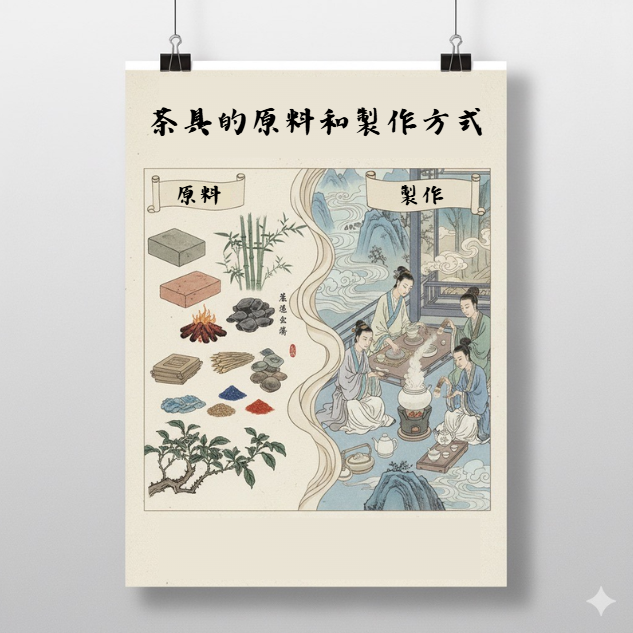
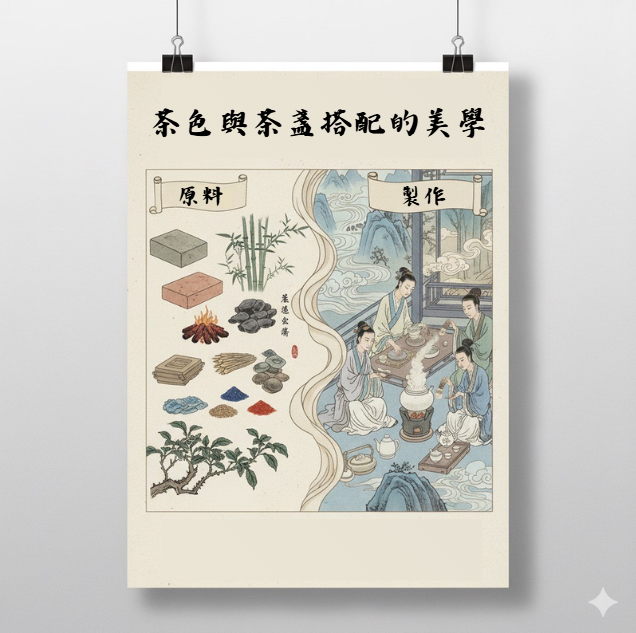
feat:展覽改名

diff --git a/exhibition3.html b/exhibition3.html
@@ -345,7 +345,7 @@
       <ul class="dropdown-menu" role="menu" aria-label="策展主題列表">
         <li role="none"><a role="menuitem" href="exhibition1.html">茶與文人詩畫</a></li>
         <li role="none"><a role="menuitem" href="exhibition2.html">唐代煮茶與宋代點茶文化</a></li>
-        <li role="none"><a role="menuitem" href="exhibition3.html">茶具的原料和製作方式</a></li>
+        <li role="none"><a role="menuitem" href="exhibition3.html">茶色與茶盞搭配的美學</a></li>
         <li role="none"><a role="menuitem" href="exhibition4.html">明清大調「茶」</a></li>
       </ul>
     </div>
@@ -364,7 +364,7 @@
           <div class="slide-content">
             <div class="slide-image" style="background-image: url('images/items/ex3_main.png');"></div>
             <div class="slide-text">
-              <div class="slide-title">茶具的原料和製作方式</div>
+              <div class="slide-title">茶色與茶盞搭配的美學</div>
               <div class="slide-description">
               <div class="slide-meta">
                 介紹<br>

diff --git a/index.html b/index.html
@@ -48,7 +48,7 @@
     <ul class="dropdown-menu" role="menu" aria-label="策展主題列表">
       <li role="none"><a role="menuitem" href="exhibition1.html">茶與文人詩畫</a></li>
       <li role="none"><a role="menuitem" href="exhibition2.html">唐代煮茶與宋代點茶文化</a></li>
-      <li role="none"><a role="menuitem" href="exhibition3.html">茶具的原料和製作方式</a></li>
+      <li role="none"><a role="menuitem" href="exhibition3.html">茶色與茶盞搭配的美學</a></li>
       <li role="none"><a role="menuitem" href="exhibition4.html">明清大調「茶」</a></li>
     </ul>
   </div>
@@ -88,7 +88,7 @@
     <a href="exhibition3.html" class="feature-item">
   <img src="images/items/exhibition.png" alt="展覽三">
       <span>釉光映茗坊:</span>
-      <span>茶具的原料和製作方式</span>
+      <span>茶色與茶盞搭配的美學</span>
     </a>
       <a href="exhibition4.html" class="feature-item">
   <img src="images/items/exhibition.png" alt="展覽四">

diff --git a/exhibition2.html b/exhibition2.html
@@ -345,7 +345,7 @@
       <ul class="dropdown-menu" role="menu" aria-label="策展主題列表">
         <li role="none"><a role="menuitem" href="exhibition1.html">茶與文人詩畫</a></li>
         <li role="none"><a role="menuitem" href="exhibition2.html">唐代煮茶與宋代點茶文化</a></li>
-        <li role="none"><a role="menuitem" href="exhibition3.html">茶具的原料和製作方式</a></li>
+        <li role="none"><a role="menuitem" href="exhibition3.html">茶色與茶盞搭配的美學</a></li>
         <li role="none"><a role="menuitem" href="exhibition4.html">明清大調「茶」</a></li>
       </ul>
     </div>

diff --git a/exhibition4.html b/exhibition4.html
@@ -345,7 +345,7 @@
       <ul class="dropdown-menu" role="menu" aria-label="策展主題列表">
         <li role="none"><a role="menuitem" href="exhibition1.html">茶與文人詩畫</a></li>
         <li role="none"><a role="menuitem" href="exhibition2.html">唐代煮茶與宋代點茶文化</a></li>
-        <li role="none"><a role="menuitem" href="exhibition3.html">茶具的原料和製作方式</a></li>
+        <li role="none"><a role="menuitem" href="exhibition3.html">茶色與茶盞搭配的美學</a></li>
         <li role="none"><a role="menuitem" href="exhibition4.html">明清大調「茶」</a></li>
       </ul>
     </div>

diff --git a/idea.html b/idea.html
@@ -176,7 +176,7 @@
       <ul class="dropdown-menu" role="menu" aria-label="策展主題列表">
         <li role="none"><a role="menuitem" href="exhibition1.html">茶與文人詩畫</a></li>
         <li role="none"><a role="menuitem" href="exhibition2.html">唐代煮茶與宋代點茶文化</a></li>
-        <li role="none"><a role="menuitem" href="exhibition3.html">茶具的原料和製作方式</a></li>
+        <li role="none"><a role="menuitem" href="exhibition3.html">茶色與茶盞搭配的美學</a></li>
         <li role="none"><a role="menuitem" href="exhibition4.html">明清大調「茶」</a></li>
       </ul>
     </div>

diff --git a/activity.html b/activity.html
@@ -64,7 +64,7 @@
       <ul class="dropdown-menu" role="menu" aria-label="策展主題列表">
         <li role="none"><a role="menuitem" href="exhibition1.html">茶與文人詩畫</a></li>
         <li role="none"><a role="menuitem" href="exhibition2.html">唐代煮茶與宋代點茶文化</a></li>
-        <li role="none"><a role="menuitem" href="exhibition3.html">茶具的原料和製作方式</a></li>
+        <li role="none"><a role="menuitem" href="exhibition3.html">茶色與茶盞搭配的美學</a></li>
         <li role="none"><a role="menuitem" href="exhibition4.html">明清大調「茶」</a></li>
       </ul>
     </div>

diff --git a/team_members.html b/team_members.html
@@ -44,7 +44,7 @@
       <ul class="dropdown-menu" role="menu" aria-label="策展主題列表">
         <li role="none"><a role="menuitem" href="exhibition1.html">茶與文人詩畫</a></li>
         <li role="none"><a role="menuitem" href="exhibition2.html">唐代煮茶與宋代點茶文化</a></li>
-        <li role="none"><a role="menuitem" href="exhibition3.html">茶具的原料和製作方式</a></li>
+        <li role="none"><a role="menuitem" href="exhibition3.html">茶色與茶盞搭配的美學</a></li>
         <li role="none"><a role="menuitem" href="exhibition4.html">明清大調「茶」</a></li>
       </ul>
     </div>

diff --git a/exhibition1.html b/exhibition1.html
@@ -345,7 +345,7 @@
       <ul class="dropdown-menu" role="menu" aria-label="策展主題列表">
       <li role="none"><a role="menuitem" href="exhibition1.html">茶與文人詩畫</a></li>
       <li role="none"><a role="menuitem" href="exhibition2.html">唐代煮茶與宋代點茶文化</a></li>
-      <li role="none"><a role="menuitem" href="exhibition3.html">茶具的原料和製作方式</a></li>
+      <li role="none"><a role="menuitem" href="exhibition3.html">茶色與茶盞搭配的美學</a></li>
       <li role="none"><a role="menuitem" href="exhibition4.html">明清大調「茶」</a></li>
       </ul>
     </div>
